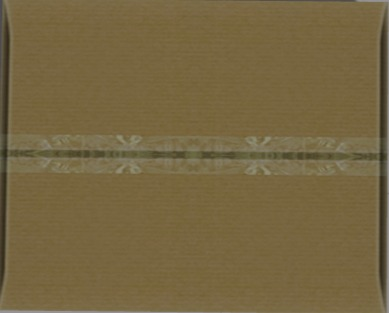
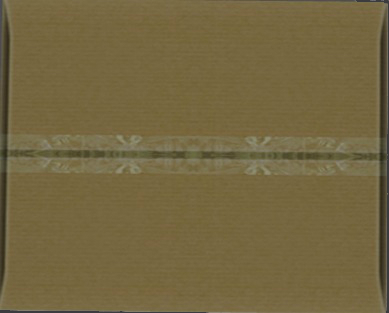
Randomly sythesizing images with random number of boxes of random sizes at random locations on the conveyor belt.

Changed region(s): [[0.9254, 0.0, 1.0, 1.0], [0.0, 0.9776, 0.5244, 1.0]]

diff --git a/CreateImages.py b/CreateImages.py
@@ -3,6 +3,8 @@ import numpy as np
 
 class ImageOperations:
 
+    numberOfBoxesRegulator = 0.6
+
     def getTemplateReady(self):
         basicImage = Image.open("images/ConveyorBelt.jpg")
         maxsize = (512, 256)
@@ -27,52 +29,105 @@ class ImageOperations:
         return ls
 
 
-    def generateImage(self, template):
-        center = Image.open("images/Center.jpg")
-
-        center_small = center
-        maxsize = (512, 256)
-        center_small.thumbnail(maxsize, Image.ANTIALIAS)
-
-        center_small = center
-        maxsize = (512, 256)
-        center_small.thumbnail(maxsize, Image.ANTIALIAS)
-
-        center_small = center
-        maxsize = (512, 256)
-        center_small.thumbnail(maxsize, Image.ANTIALIAS)
-
-        l1     = Image.open("images/Left_1.jpg")
-        r1     = Image.open("images/Right_1.jpg")
-        l2     = Image.open("images/Left_2.jpg")
-        r2     = Image.open("images/Right_2.jpg")
+    def generateImage(self, template, sectionsList):
 
         panel = 1
 
-        while panel < 16:
+        while panel <= 16:
             r = np.random.uniform(low=0.0,high=1.0)
-            if r > 0.8:
+            if r > self.numberOfBoxesRegulator:
                 box_size = np.random.uniform(low=0.0, high=1.0)
                 if box_size < 0.5:
                     #paste a small image
+                    template = self.pasteObjectOnBelt(template, "S", sectionsList, panel)
                     panel = panel+1
                 elif box_size<0.8 and box_size >=0.5:
                     #paste a medium size image
+                    template = self.pasteObjectOnBelt(template, "M", sectionsList, panel)
                     panel = panel+2
                 elif box_size>0.8:
                     #paste a large image
+                    template = self.pasteObjectOnBelt(template, "L", sectionsList, panel)
                     panel = panel+3
+            else:
+                panel = panel + 1
+
+        template.show()
+
+        return template
 
 
-    def pasteObjectOnBelt(self,currentBelt,object,start_x,start_y):
-        til = Image.new("RGB", (923, 662))
-        im1 = Image.open("layout.jpg")  # 25x25
-        til.paste(im1, (0, 0))
+    def pasteObjectOnBelt(self,current_Template, size, sectionsList, panelNumber):
 
-        im2 = Image.open("object.jpg")  # 25x25
-        til.paste(im2, (80, 80))
+        l1 = Image.open("images/Left_1.jpg")
+        r1 = Image.open("images/Right_1.jpg")
+        l2 = Image.open("images/Left_2.jpg")
+        r2 = Image.open("images/Right_2.jpg")
+        center = Image.open("images/Center.jpg")
 
-        til.show()
+        if panelNumber >=1 and panelNumber<=3:
+            box_image = l2
+        elif panelNumber >3 and panelNumber<=6:
+            box_image = l1
+        elif panelNumber >6 and panelNumber<=10:
+            box_image = center
+        elif panelNumber >10 and panelNumber<=13:
+            box_image = r1
+        elif panelNumber >13 and panelNumber<=16:
+            box_image = r2
+        else:
+            return
+
+        y_min = 226
+        y_max = 288
+
+        scaled_box_image = box_image
+        if size=="S":
+            maxsize = (24, 12)
+            y_min = 226
+            y_max = 276
+            x_max = sectionsList[panelNumber] - 24
+            x_min = sectionsList[panelNumber - 1]
+        elif size=="M":
+            maxsize = (32, 16)
+            y_min = 226
+            y_max = 272
+            if panelNumber<=15:
+                x_max = sectionsList[panelNumber+1] - 32
+            else:
+                return current_Template
+            x_min = sectionsList[panelNumber - 1]
+        elif size == "L":
+            maxsize = (48, 24)
+            y_min = 226
+            y_max = 264
+            if panelNumber<=14:
+                x_max = sectionsList[panelNumber + 2] - 48
+            else:
+                return current_Template
+            x_min = sectionsList[panelNumber - 1]
+        else:
+            return
+        scaled_box_image.thumbnail(maxsize, Image.ANTIALIAS)
+
+        x = np.random.uniform(low=x_min, high=x_max)
+        y = np.random.uniform(low=y_min, high=y_max)
+
+        x = int(x)
+        y = int (y)
+
+
+        #til = Image.new("RGB", (923, 662))
+        #im1 = Image.open("layout.jpg")  # 25x25
+        #til.paste(im1, (0, 0))
+
+        #im2 = Image.open("object.jpg")  # 25x25
+        #til.paste(im2, (80, 80))
+
+        current_Template.paste(scaled_box_image, (x,y))
+        return current_Template
+
+        #til.show()
 
 
 

diff --git a/GenerateDataset.py b/GenerateDataset.py
@@ -3,6 +3,7 @@ from CreateImages import ImageOperations
 operations = ImageOperations()
 
 template = operations.getTemplateReady()
-print(template.size)
+
 sectionsList = operations.divideIntoSections(belt_start=16, belt_end=496, number_of_sections=16)
-print(sectionsList)
+
+operations.generateImage(template, sectionsList)

diff --git a/Check.py b/Check.py
@@ -1,3 +1,5 @@
-x = 10
-for i in range(0,x):
-    print i
+from PIL import Image
+
+template = Image.open("template.png")
+template = template.crop((16,226,494,288))
+template.show()
